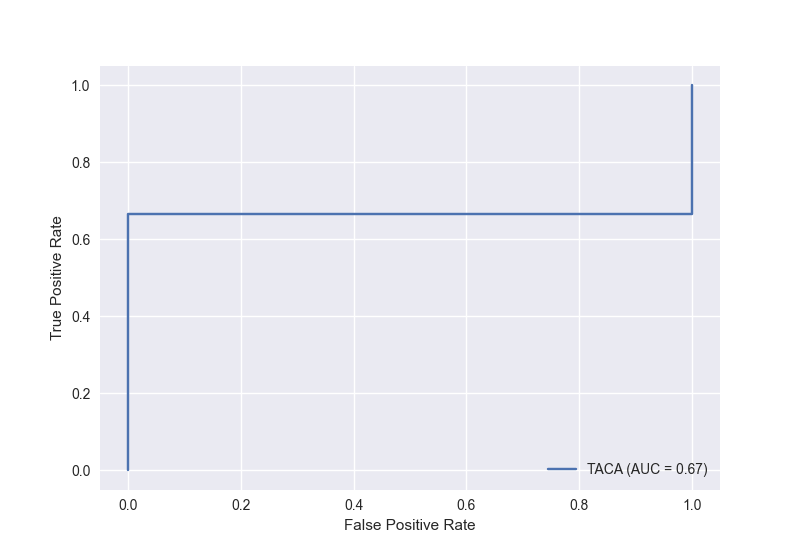
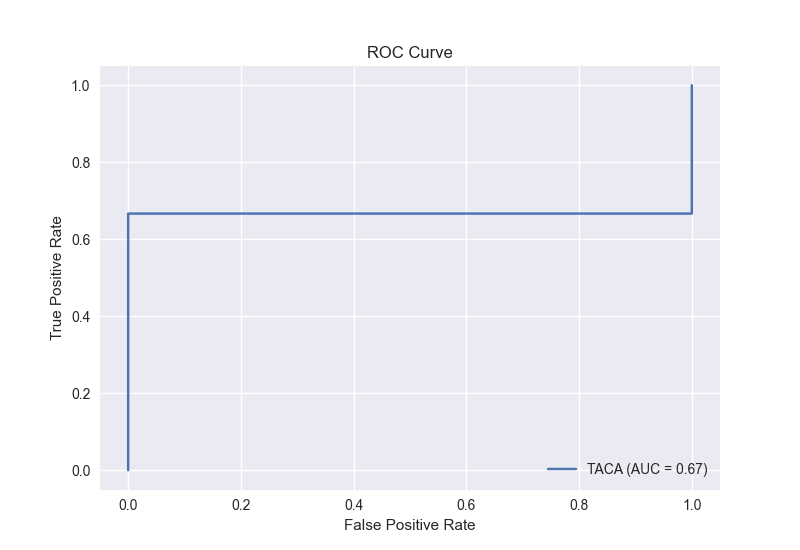
updated plots

Changed region(s): [[0.1562, 0.3709, 0.875, 0.4018], [0.4688, 0.0618, 0.5625, 0.1236]]

diff --git a/ROC.py b/ROC.py
@@ -57,6 +57,18 @@ class ROCMetrics:
 
         return prec
 
+    @staticmethod
+    def fall_out(conf_matrix: np.array) -> float:
+        tn = conf_matrix[0][0]
+        fp = conf_matrix[0][1]
+
+        with np.errstate(divide='ignore', invalid='ignore'):
+            fo = np.true_divide(fp, tn + fp)
+            if fo == np.inf:
+                fo = 0
+
+        return fo
+
     def accuracy(self, y_pred: pd.Series) -> float:
         return accuracy_score(self.y_true, y_pred)
 
@@ -75,21 +87,27 @@ class ROCMetrics:
             sens = self.sensitivity(conf)
             spec = self.specificity(conf)
             prec = self.precision(conf)
+            fo = self.fall_out(conf)
             accr = self.accuracy(y_pred)
             f1 = self.f1_score(y_pred)
 
             y_pred = y_pred.append(pd.Series({'sensitivity': sens, 'specificity': spec, 'precision': prec,
-                                              'accuracy': accr, 'f1_score': f1}))
+                                              'fall_out': fo, 'accuracy': accr, 'f1_score': f1}))
             matrix[i] = y_pred
 
         return matrix
 
-    def roc_plot(self, path: str = None):
-        fpr, tpr, thresh = roc_curve(self.y_true, self.p_pred)
+    def roc_plot(self, threshold_matrix: pd.DataFrame,  path: str = None):
+        plt.clf()
+
+        fpr = threshold_matrix.loc['fall_out', :]
+        tpr = threshold_matrix.loc['sensitivity', :]
         roc_auc = auc(fpr, tpr)
 
         display = RocCurveDisplay(fpr=fpr, tpr=tpr, roc_auc=roc_auc, estimator_name=self.y_true.name)
         display.plot()
+
+        plt.title('ROC Curve')
 
         if path is not None:
             plt.savefig(path)
@@ -129,7 +147,7 @@ def main(output_data_path: str, plot_path: str = None):
     path = plot_path.rsplit('.')
     roc.metrics_plot(thresholds, path=path[0] + '-metrics.' + path[1], xlim=(0.6, 1))
 
-    roc.roc_plot(plot_path)
+    roc.roc_plot(thresholds, plot_path)
 
     return thresholds.loc[:, p_th]
 
